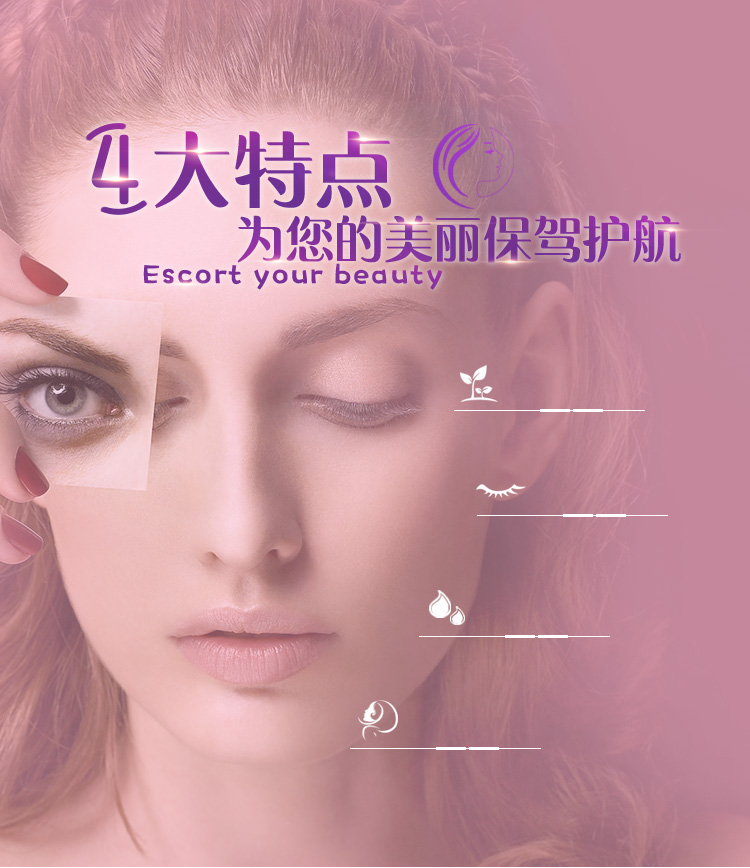
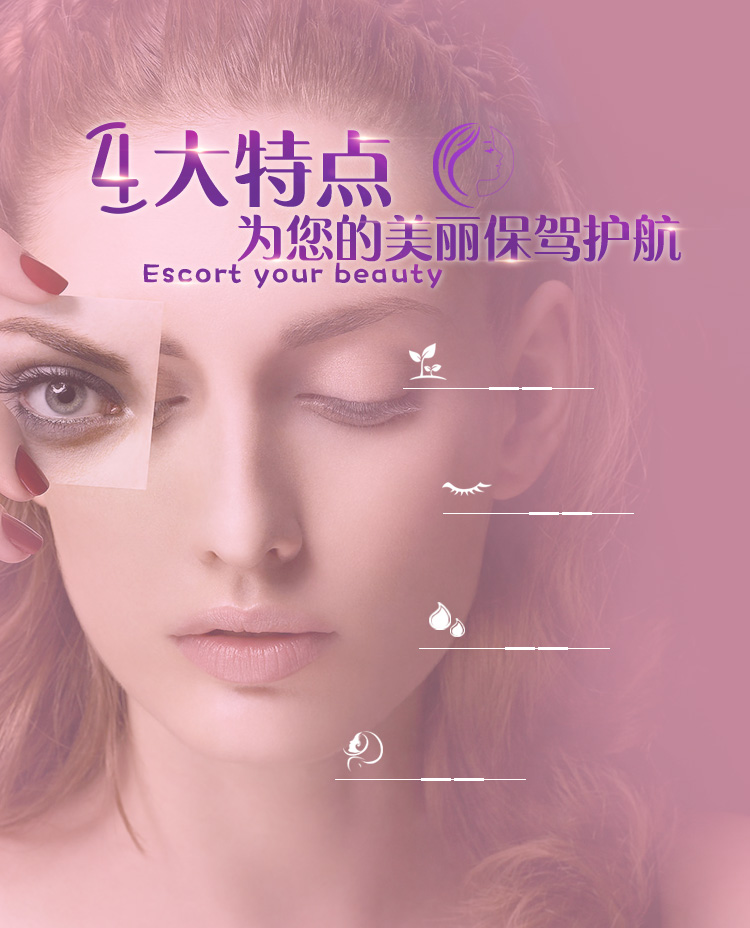
增加文字，更改样式

diff --git a/static.hzshuangmei.com/css/m/bkdqyd/theme_sj.css b/static.hzshuangmei.com/css/m/bkdqyd/theme_sj.css
@@ -83,16 +83,17 @@ body { background: #fff; font-family: "微软雅黑", sans-serif, Verdana, Arial
 .m3 .zt-doc .zt-content dl dd { width: 8.96rem; margin-top: 0.85333333rem; font-size: 0.512rem; font-weight: normal; font-stretch: normal; line-height: 0.768rem; letter-spacing: 0rem; color: #69318f; }
 .m3 .zt-doc .zt-content dl dd span { color: #fe83ac; }
 .m3 .zt-doc .consult { margin-top: 1.28rem; width: 5.184rem; height: 0.93866667rem; background-color: #69318f; border-radius: 0.064rem; font-size: 0.512rem; font-weight: normal; font-stretch: normal; line-height: 0.93866667rem; letter-spacing: 0rem; color: #ffffff; text-align: center; }
-.m4 { background: url('//img.hzshuangmei.com/m/bkdqyd/bg4.jpg') center top no-repeat; background-size: 16rem; height: 18.51733333rem; }
-.m4 .zt-doc { padding-top: 2.56rem; }
-.m4 .zt-doc .zt-title { height: 3.41333333rem; }
-.m4 .zt-doc .zt-content { margin-top: 1.70666667rem; padding-left: 7.46666667rem; }
-.m4 .zt-doc .zt-content .item { height: 2.34666667rem; }
-.m4 .zt-doc .zt-content .item h3 { font-size: 0.64rem; font-weight: normal; font-stretch: normal; line-height: 0.896rem; letter-spacing: 0rem; color: #ffffff; padding-left: 0.85333333rem; }
-.m4 .zt-doc .zt-content .item1 { padding-left: 2.34666667rem; }
-.m4 .zt-doc .zt-content .item2 { padding-left: 2.98666667rem; height: 2.56rem; }
-.m4 .zt-doc .zt-content .item3 { height: 2.34666667rem; padding-left: 1.70666667rem; }
-.m4 .zt-doc .zt-content .item4 { padding-left: 0.29866667rem; }
+.m4 { background: url('//img.hzshuangmei.com/m/bkdqyd/bg4.jpg') center top no-repeat; background-size: 750/46.875rem; height: 928/46.875rem; }
+.m4 .zt-doc { padding-top: 120/46.875rem; }
+.m4 .zt-doc .zt-title { height: 160/46.875rem; }
+.m4 .zt-doc .zt-content { margin-top: 60/46.875rem; padding-left: 320/46.875rem; }
+.m4 .zt-doc .zt-content .item { height: 110/46.875rem; }
+.m4 .zt-doc .zt-content .item h3 { font-size: 30/46.875rem; font-weight: normal; font-stretch: normal; line-height: 42/46.875rem; letter-spacing: 0/46.875rem; color: #ffffff; padding-left: 60/46.875rem; }
+.m4 .zt-doc .zt-content .item p { margin-top: 14/46.875rem;    /*width:300/46.875rem;*/ font-size: 20/46.875rem; font-weight: normal; font-stretch: normal; line-height: 30/46.875rem; letter-spacing: 0px; color: #f1f1f1; }
+.m4 .zt-doc .zt-content .item1 { padding-left: 82/46.875rem; height: 126/46.875rem; width: 290/46.875rem; }
+.m4 .zt-doc .zt-content .item2 { padding-left: 120/46.875rem; height: 134/46.875rem; width: 290/46.875rem; }
+.m4 .zt-doc .zt-content .item3 { height: 130/46.875rem; padding-left: 100/46.875rem; }
+.m4 .zt-doc .zt-content .item4 { padding-left: 14/46.875rem; width: 330/46.875rem; }
 .m5 { height: 20.69333333rem; position: relative; }
 .m5 .zt-doc { padding-top: 2.13333333rem; }
 .m5 .zt-doc .zt-title { height: 3.84rem; width: 11.94666667rem; background: url('//img.hzshuangmei.com/m/bkdqyd/bgt5.jpg') center center no-repeat; background-size: 100%; }
@@ -107,7 +108,7 @@ body { background: #fff; font-family: "微软雅黑", sans-serif, Verdana, Arial
 float: left; position: relative; width: 3.09333333rem; height: 0.896rem; background-color: #69318f; border-radius: 0.064rem; padding-left: 0.21333333rem; margin-right: 0.21333333rem; cursor: pointer; font-size: 0.512rem; font-weight: normal; font-stretch: normal; line-height: 0.896rem; letter-spacing: 0rem; color: #ffffff; }
 .m6 .zt-doc .zt-content .tab-indicator li img { display: block; position: absolute; bottom: 0; right: 0; height: 1.92rem; }
 .m6 .zt-doc .zt-content .tab-indicator li.active { background-color: #faa8c3; }
-.m6 .zt-doc .zt-content .tab-content { z-index:1;background:none;position: relative; height: 19.84rem; margin-top: 1.06666667rem; width: 48.21333333rem; }
+.m6 .zt-doc .zt-content .tab-content { z-index: 1; background: none; position: relative; height: 19.84rem; margin-top: 1.06666667rem; width: 48.21333333rem; }
 .m6 .zt-doc .zt-content .tab-content .item { background: url('//img.hzshuangmei.com/m/bkdqyd/bg6_border.png') 0.72533333rem 4.48rem no-repeat; background-size: 15.36rem; position: relative; padding-top: 4.096rem; width: 16rem; height: 14.72rem;  /*visibility: hidden;*/ float: left; }
 .m6 .zt-doc .zt-content .tab-content .item .item-box { height: 14.72rem; padding-left: 5.97333333rem; }
 .m6 .zt-doc .zt-content .tab-content .item h3 { font-size: 0.64rem; font-weight: normal; letter-spacing: 0rem; color: #732b8f; padding-left: 2.13333333rem; }
